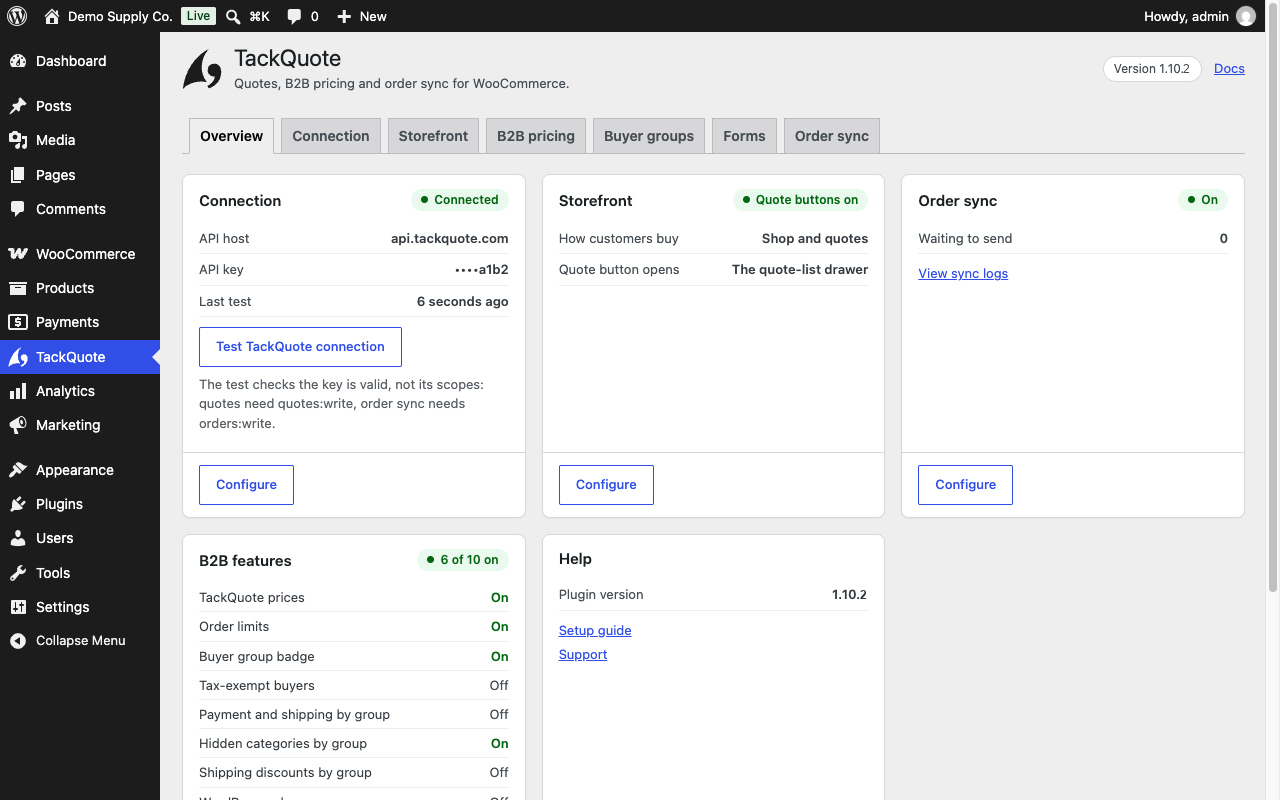
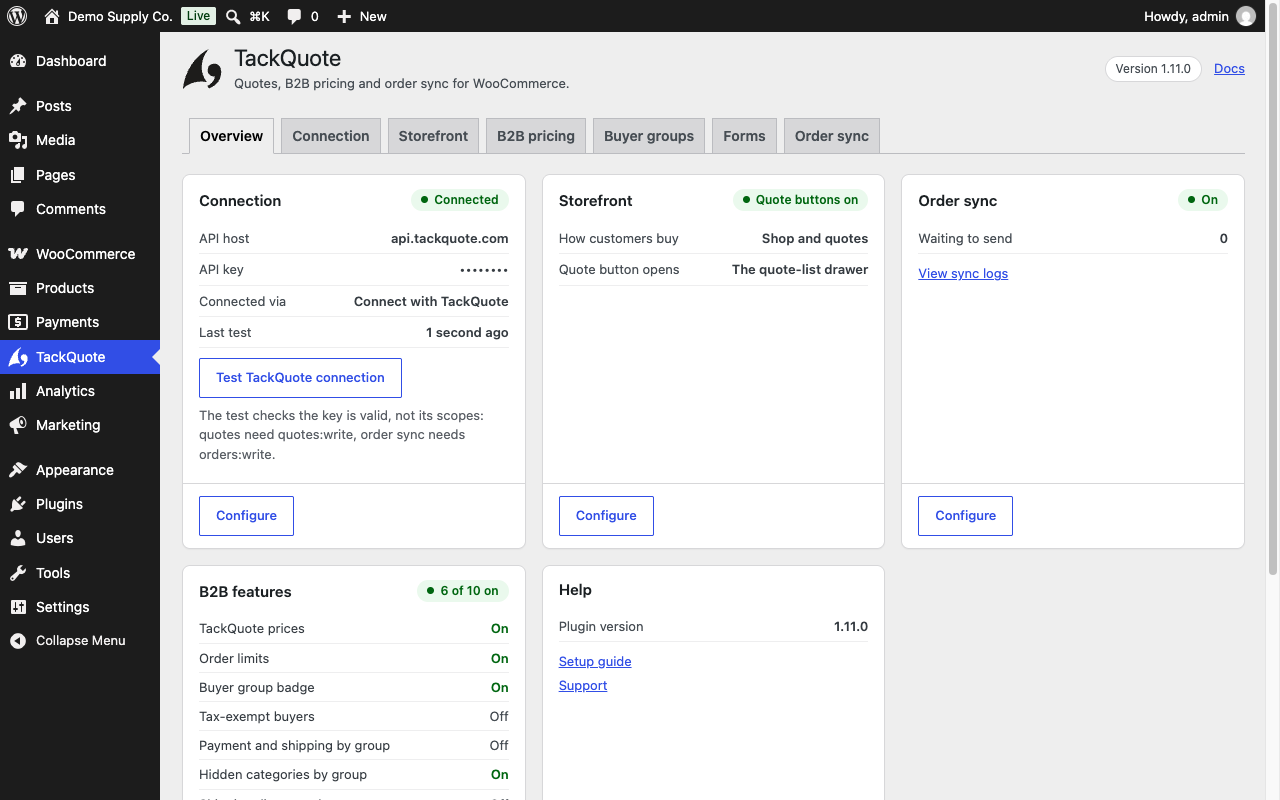
chore(listing): recapture screenshot 13 at 1.11.0
The Overview tab screenshot still showed "Version 1.10.2" and lacked the
1.11.0 "Connected via Connect with TackQuote" row. Retaken on the Studio
demo site at 1280x800 with the API key suffix masked; README notes the
capture conditions, which differ from the original blocked-API run.

diff --git a/.wordpress-org/README.md b/.wordpress-org/README.md
@@ -40,3 +40,11 @@ request reached a TackQuote server. Icons and banners are regenerated from
 `tack/apps/web/public/brand/tackquote-app-icon.png` (the current mark).
 
 Superseded files were removed on 2026-10-10 (owner request): the pre-redesign `demo/` captures and the old source marks. Icons and banners are regenerated from the brand kit in the tack repo (`apps/web/public/brand/tackquote-app-icon.png`); screenshots come from the Studio site on the current design.
+
+## Recaptures
+
+- **screenshot-13 (2026-10-11):** retaken at 1.11.0 so the version chip, the Help card and the new
+  "Connected via Connect with TackQuote" row match the released plugin. Unlike the original run, the
+  Studio site was connected to the live TackQuote API through Connect with TackQuote, so the Overview
+  shows a real connection; the API key suffix was masked to dots before capture and no other account
+  detail is on screen. Same demo site title, 1280x800 viewport, six of ten B2B switches on.
